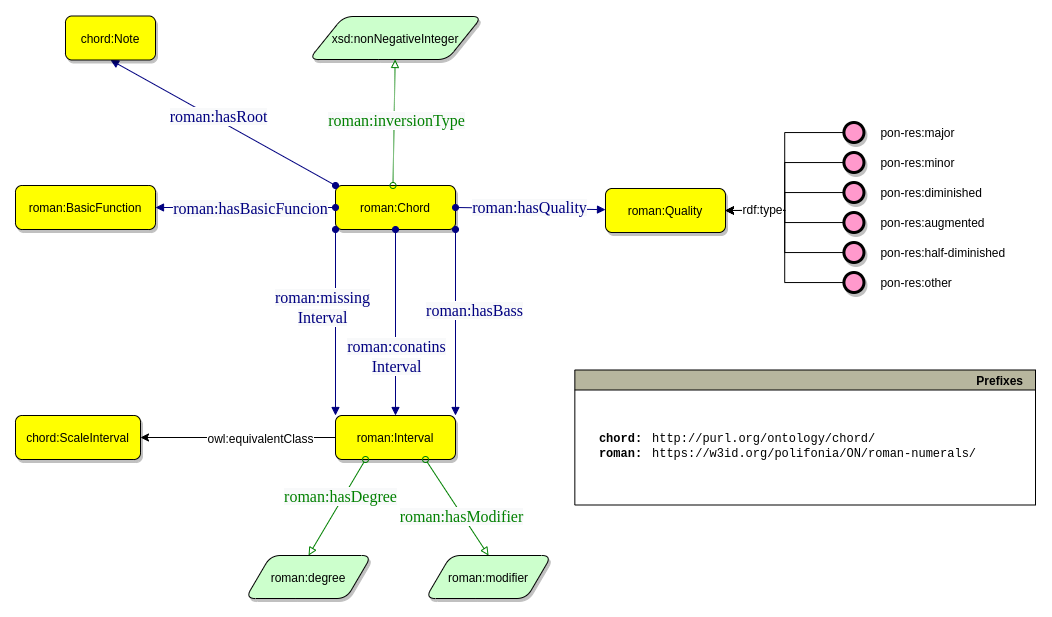
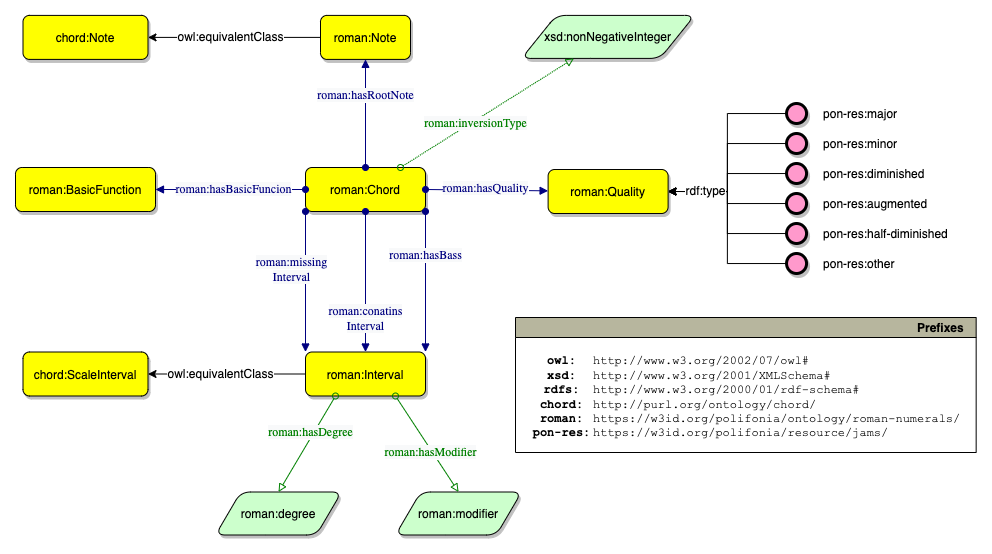
updated decomposition and kg

diff --git a/api/generate_kg.py b/api/generate_kg.py
@@ -2,7 +2,7 @@
 
 """
 from rdflib import Graph, URIRef, Literal, BNode, Namespace
-from rdflib.namespace import FOAF, RDF, RDFS, OWL
+from rdflib.namespace import RDF, RDFS, OWL
 
 
 def generate_kg(decomposed_roman: dict):
@@ -19,12 +19,10 @@ def generate_kg(decomposed_roman: dict):
     roman_chord = URIRef(f'http://w3id.org/polifonia/ontology/roman-chord/{decomposed_roman["chord"]}')
     quality = URIRef(f'http://w3id.org/polifonia/resource/jams/{decomposed_roman["quality"]}')
     inversion = Literal(decomposed_roman['inversion'])
-    basic_function = URIRef(f'http://w3id.org/polifonia/resource/jams/{decomposed_roman["plain_roman"]}')
+    basic_function = URIRef(f'http://w3id.org/polifonia/resource/roman-chord/{decomposed_roman["plain_roman"]}')
     basic_function_name = Literal(decomposed_roman["plain_roman"])
-    root_note = URIRef(f'http://purl.org/ontology/chord/{decomposed_roman["root"]}')
-    bass = BNode()
+    root_note = URIRef(f'http://purl.org/ontology/chord/{"".join([x for x in decomposed_roman["root"]])}')
     bass_alteration, bass_degree = decomposed_roman["bass"]
-    bass_interval = URIRef(f'http://w3id.org/polifonia/resource/jams/{"".join([x for x in decomposed_roman["bass"]])}')
     bass_degree = Literal(bass_degree)
 
     # roman chord
@@ -33,37 +31,49 @@ def generate_kg(decomposed_roman: dict):
     g.add((roman_chord, ROMAN.inversionType, inversion))
     g.add((roman_chord, ROMAN.hasBasicFunction, basic_function))
     g.add((roman_chord, ROMAN.hasRoot, root_note))
-    g.add((roman_chord, ROMAN.hasBass, bass_interval))
     # basic function
     g.add((basic_function, RDFS.label, basic_function_name))
+    g.add((basic_function, RDF.type, ROMAN.BasicFunction))
     # bass interval
-    g.add((bass_interval, RDF.type, ROMAN.Interval))
-    g.add((bass_interval, ROMAN.hasDegree, bass_degree))
-    if bass_alteration != '':
+    bass = BNode()
+    g.add((roman_chord, ROMAN.hasBass, bass))
+    g.add((bass, RDF.type, ROMAN.Interval))
+    g.add((bass, CHORD.degree, bass_degree))
+    g.add((bass, OWL.sameAs,
+           URIRef(f'http://purl.org/ontology/scale_interval/{"".join([x if x is not None else "" for x in bass])}')))
+    if bass_alteration is not None:
         bass_alteration = Literal(bass_alteration)
-        g.add((bass_interval, ROMAN.hasModifier, bass_alteration))
+        g.add((bass, CHORD.modifier, bass_alteration))
     # intervals
     for interval in decomposed_roman['degrees']:
-        interval_uri = URIRef(f'http://w3id.org/polifonia/resource/jams/{"".join([x for x in interval])}')
+        interval_node = BNode()
         interval_alteration, interval_degree = interval
-        g.add((roman_chord, ROMAN.containsInterval, interval_uri))
-        g.add((interval_uri, ROMAN.hasDegree, Literal(interval_degree)))
-        if interval_alteration != '':
-            g.add((interval_uri, ROMAN.hasModifier, Literal(interval_alteration)))
+        g.add((roman_chord, ROMAN.containsInterval, interval_node))
+        g.add((interval_node, RDF.type, ROMAN.Interval))
+        g.add((interval_node, OWL.sameAs, URIRef(
+            f'http://purl.org/ontology/scale_interval/{"".join([x if x is not None else "" for x in interval])}')))
+        g.add((interval_node, CHORD.degree, Literal(int(interval_degree))))
+        if interval_alteration is not None:
+            g.add((interval_node, CHORD.modifier, Literal(interval_alteration)))
     # missing intervals
     for missing_interval in decomposed_roman['missing']:
-        missing_interval_uri = URIRef(f'http://w3id.org/polifonia/resource/jams/{"".join([x for x in missing_interval])}')
+        missing_node = BNode()
         missing_interval_alteration, missing_interval_degree = missing_interval
-        g.add((roman_chord, ROMAN.containsInterval, Literal(missing_interval_uri)))
-        g.add((missing_interval_uri, ROMAN.hasDegree, Literal(missing_interval_degree)))
-        if missing_interval_alteration != '':
-            g.add((missing_interval_uri, ROMAN.hasModifier, Literal(missing_interval_alteration)))
+        g.add((roman_chord, ROMAN.missingInterval, missing_node))
+        g.add((missing_node, RDF.type, ROMAN.Interval))
+        g.add((missing_node, OWL.sameAs, URIRef(
+            f'http://purl.org/ontology/scale_interval/{"".join([x if x is not None else "" for x in missing_interval])}')))
+        g.add((missing_node, CHORD.degree, Literal(int(missing_interval_degree))))
+        if missing_interval_alteration is not None:
+            g.add((missing_node, CHORD.modifier, Literal(missing_interval_alteration)))
 
     return g.serialize()
 
 
 if __name__ == '__main__':
     # test the script
-    dummy_chord = {'chord': 'VII64[no3]', 'quality': 'other', 'inversion': 2, 'plain_roman': 'VII', 'root': 'B#', 'bass': ('##', '4'), 'degrees': [('##', '4'), ('#', '7')], 'missing': [('', '3')]}
+    dummy_chord = {'chord': 'VII64[no3]', 'quality': 'other', 'inversion': 2, 'plain_roman': 'VII',
+                   'root': ('sharp', 'B'), 'bass': ('doublesharp', '4'),
+                   'degrees': [('doublesharp', '4'), ('sharp', '7')], 'missing': [(None, '3')]}
     test_kg = generate_kg(dummy_chord)
     print(test_kg)

diff --git a/api/decompose_roman.py b/api/decompose_roman.py
@@ -3,7 +3,7 @@ Preprocessing utility functions that are the core backend of the APIs.
 """
 from music21 import note, roman, Music21Exception
 
-from api.utils import calculate_interval, separate_digits
+from api.utils import calculate_interval, separate_alterations
 
 
 def analyse_roman(roman_chord: str) -> dict:
@@ -24,6 +24,7 @@ def analyse_roman(roman_chord: str) -> dict:
         raise ValueError('The chord given is not a valid Roman Chord.')
     else:
         root = note.Note(chord_object.root()).name
+        root = separate_alterations(root)
         bass = calculate_interval(str(chord_object.bass()), 'C4')
         quality = chord_object.quality
         inversion = chord_object.inversion()
@@ -35,9 +36,9 @@ def analyse_roman(roman_chord: str) -> dict:
                 'inversion': inversion,
                 'plain_roman': plain_roman,
                 'root': root,
-                'bass': separate_digits(bass),
-                'degrees': [separate_digits(degree) for degree in degrees],
-                'missing': [separate_digits(str(m)) for m in missing]}
+                'bass': separate_alterations(bass),
+                'degrees': [separate_alterations(degree) for degree in degrees],
+                'missing': [separate_alterations(str(m)) for m in missing]}
 
 
 if __name__ == '__main__':

diff --git a/api/utils.py b/api/utils.py
@@ -4,6 +4,16 @@
 
 from music21 import note, interval
 
+ALTERATION_MAP = {
+    'b#': None,
+    '#b': None,
+    '': None,
+    '#': 'sharp',
+    '##': 'doublesharp',
+    'b': 'flat',
+    'bb': 'doubleflat',
+}
+
 
 def calculate_interval(note_1: str, note_2: str, simple: bool = True) -> str:
     """
@@ -54,22 +64,25 @@ def convert_intervals(m21_interval: str) -> str:
     return m21_interval.translate(m21_interval.maketrans(substitutions))
 
 
-def separate_digits(scale_degree: str) -> tuple:
+def separate_alterations(note: str) -> tuple:
     """
 
-    :param scale_degree:
+    :param note:
     :return:
     """
-    digits = ''
+
+    cleaned_note = ''
     alterations = ''
-    for character in scale_degree:
-        if character.isdigit():
-            digits += character
-        else:
+    for character in note:
+        if character in ['b', '#']:
             alterations += character
-    return alterations, digits
+        else:
+            cleaned_note += character
+    if alterations == 'b#' or alterations == '#b':
+        alterations = ''
+    return ALTERATION_MAP[alterations], cleaned_note
 
 
 if __name__ == '__main__':
-    test = separate_digits('##4')
+    test = separate_alterations('bbB')
     print(test)

diff --git a/README.md b/README.md
@@ -1,2 +1,2 @@
-# roman-chord-ontology
+# Roman Chord Ontology
 Repository for the Roman Chord ontology and its APIs
